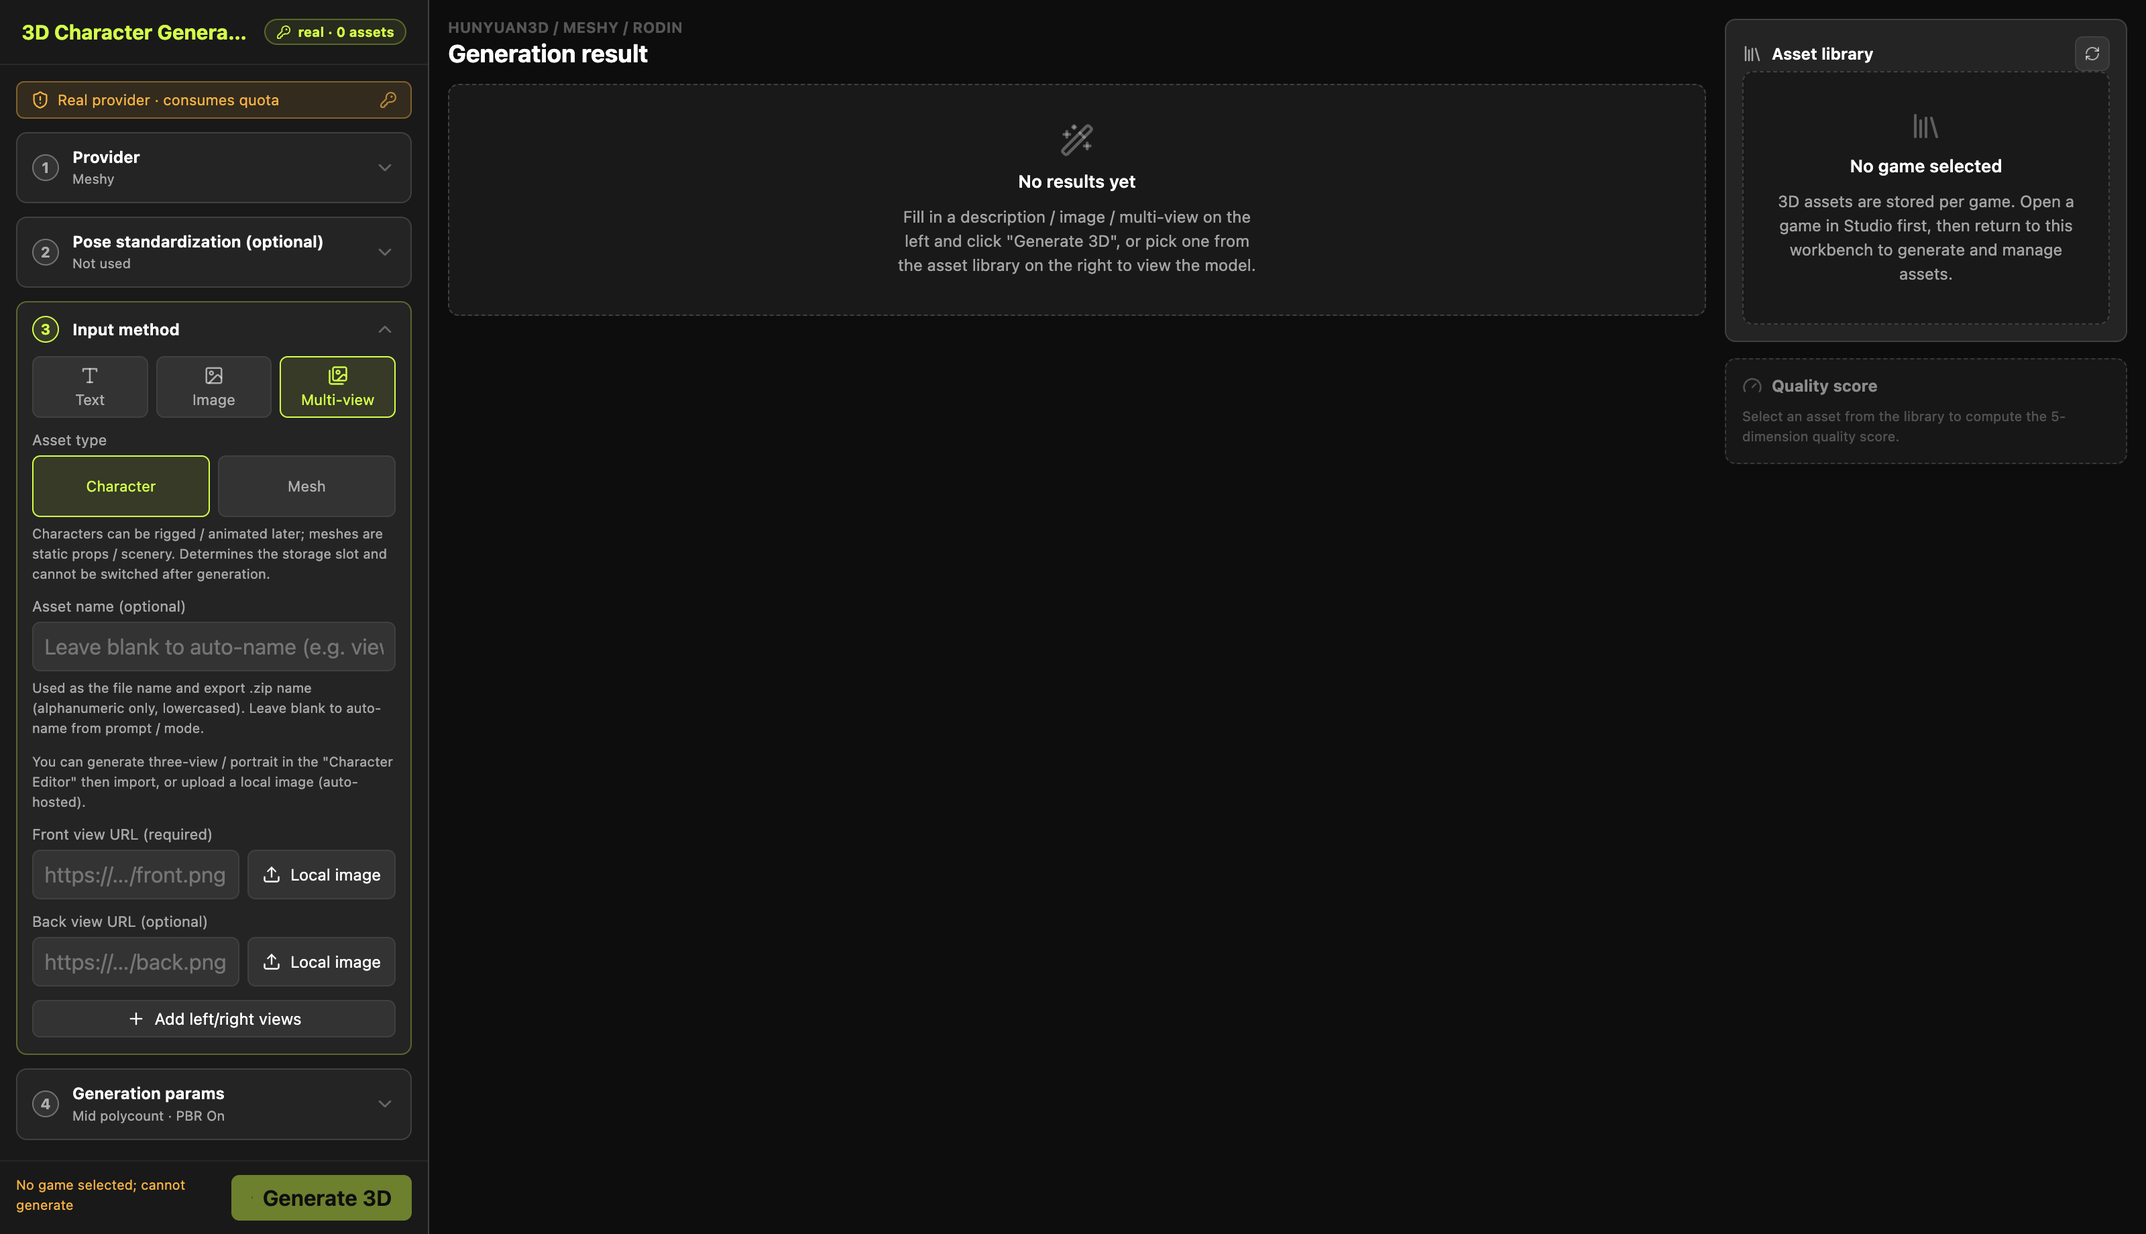
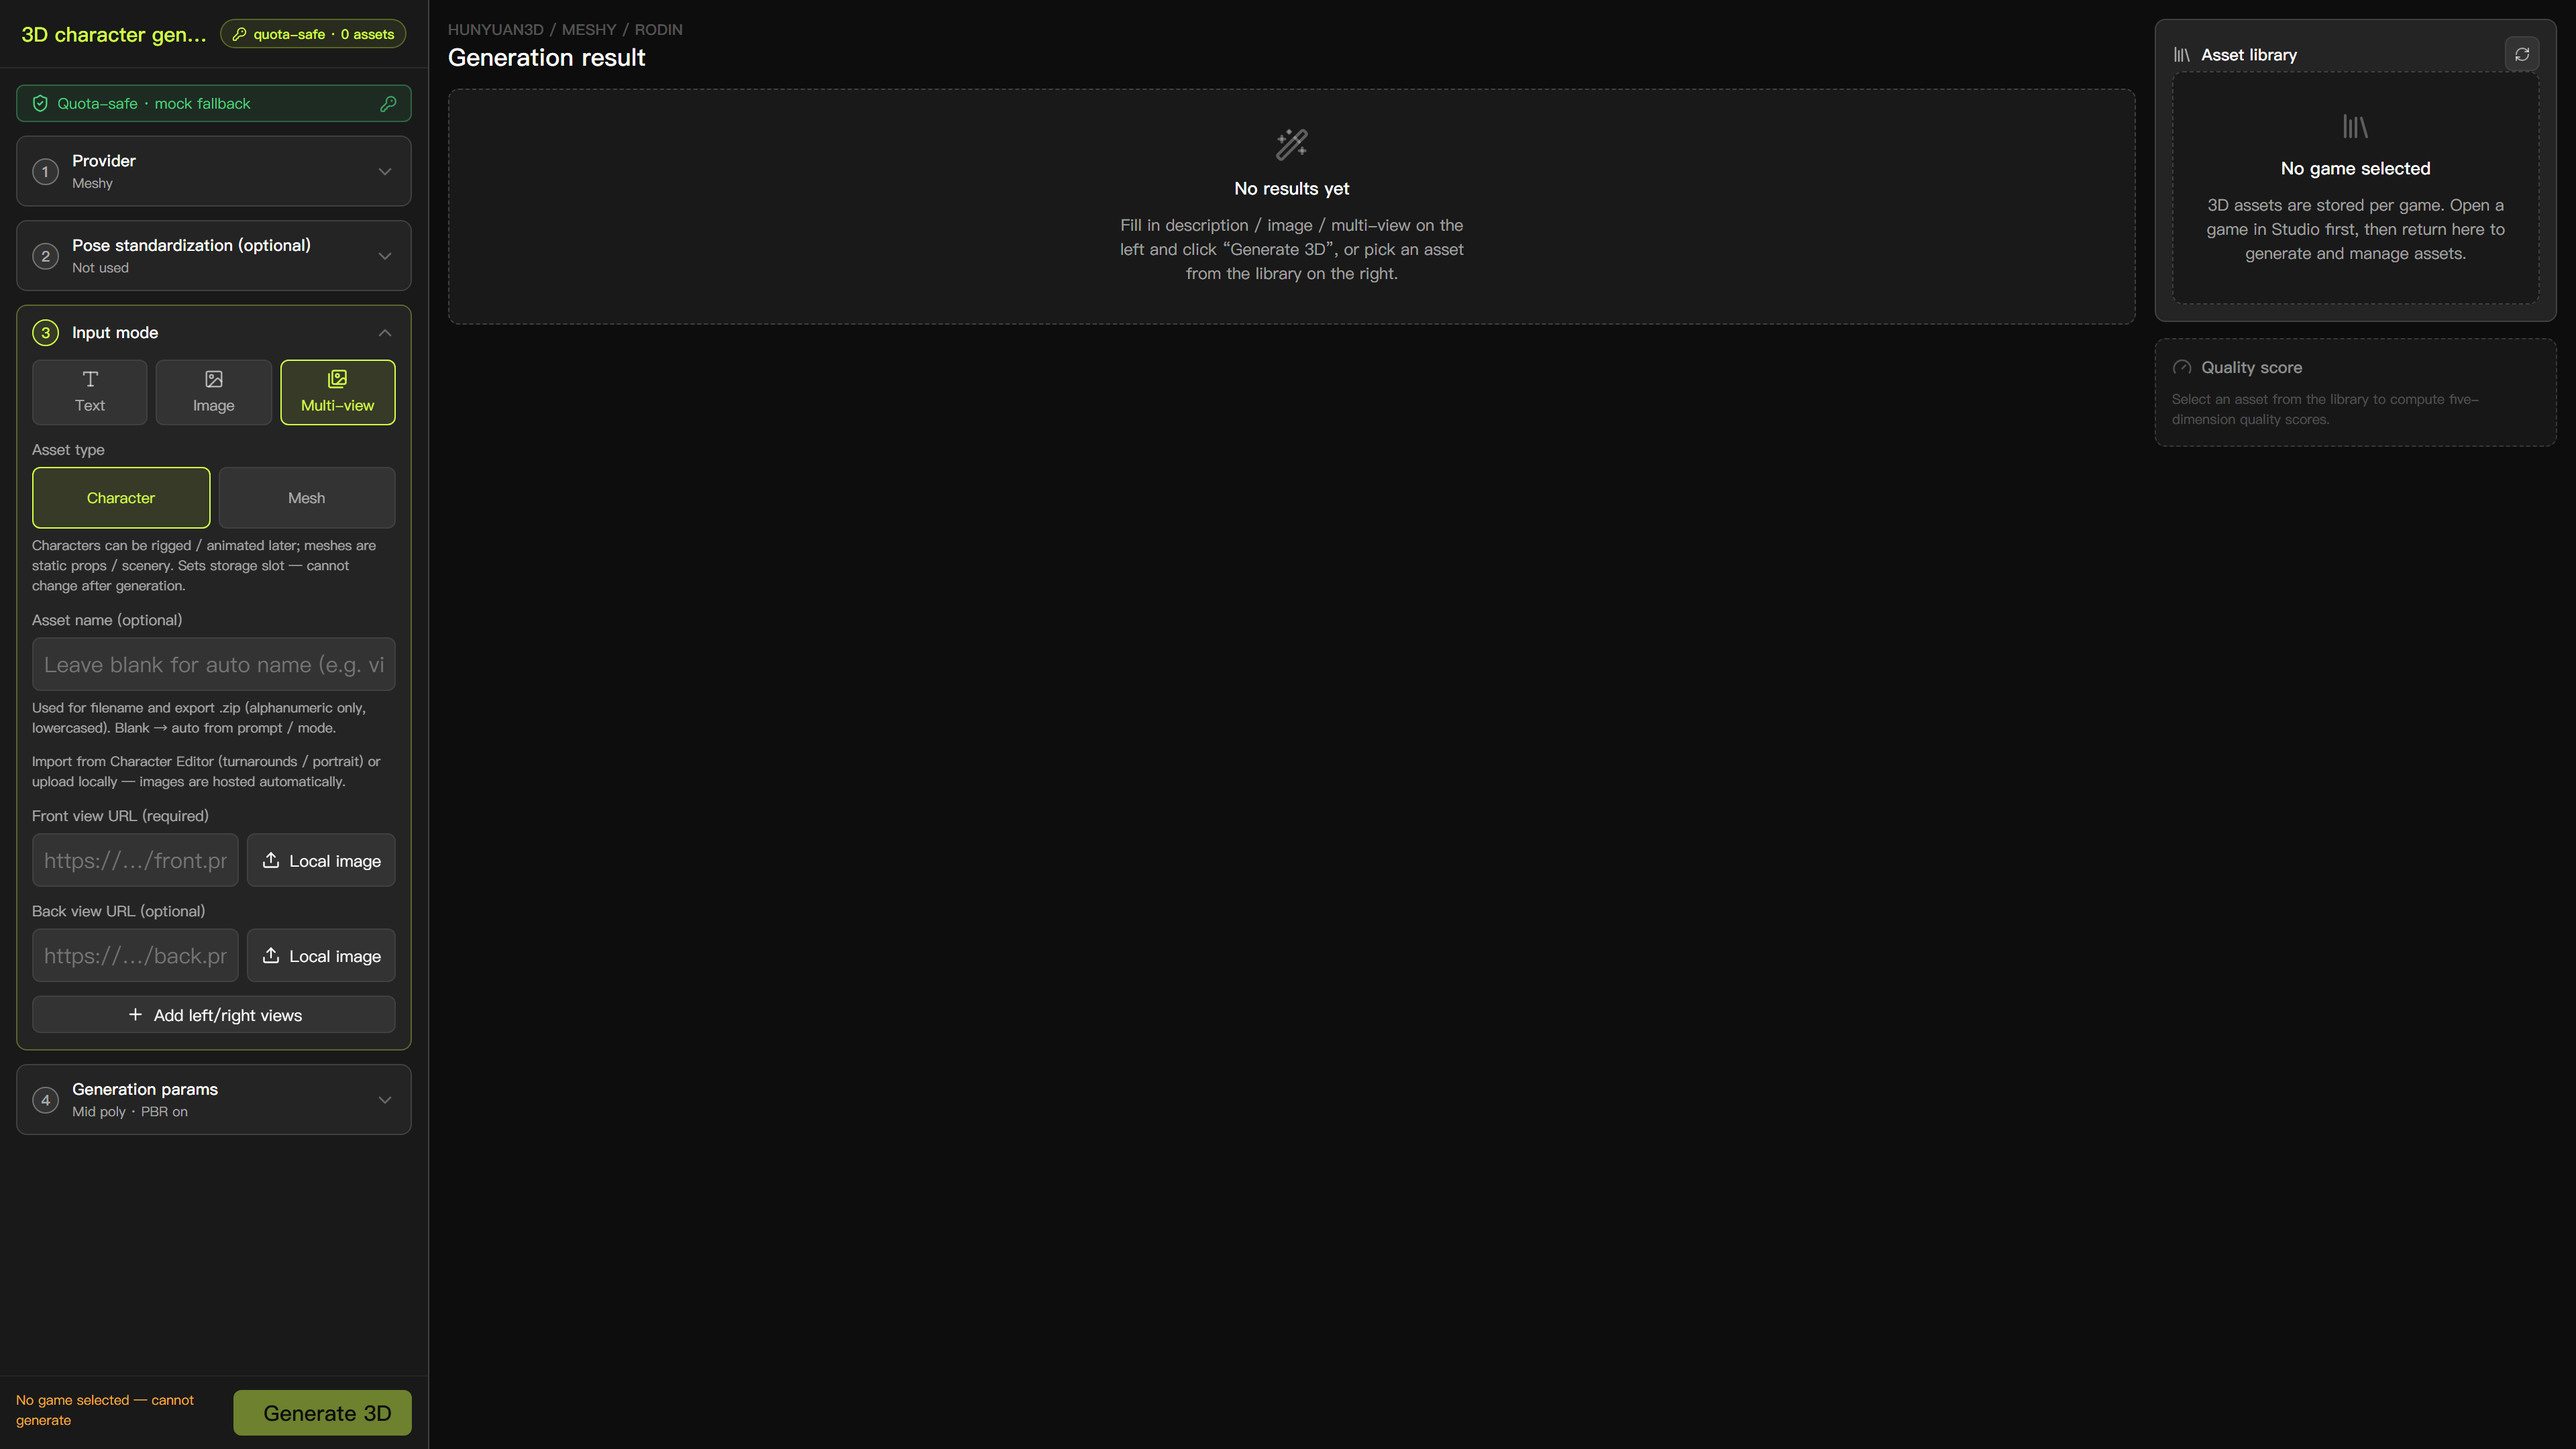
Mirror built site from source

diff --git a/assets/marketplace/app.js b/assets/marketplace/app.js
@@ -51,7 +51,7 @@
     function esc(s) { return String(s == null ? "" : s).replace(/[&<>"]/g, function (c) { return { "&": "&amp;", "<": "&lt;", ">": "&gt;", "\"": "&quot;" }[c]; }); }
 
     // ── studio screenshot previews (runtime manifest + gallery + lightbox) ──
-    var PREVIEW_CACHE_VERSION = "studio-previews-16";
+    var PREVIEW_CACHE_VERSION = "studio-previews-17";
 
     function resolvePreviewAssetUrl(path) {
       if (!path) return path;

diff --git a/ja/examples/index.html b/ja/examples/index.html
@@ -175,7 +175,7 @@
           <span class="ex-item-tags"><span class="tag">physics</span><span class="tag">rapier</span></span>
         </a>
     </nav>
-    <div class="ex-stamp">エンジンに合わせて v0.0.0 · <code>0b4c3a701b</code></div>
+
   </aside>
   <section class="ex-view">
     <div class="ex-bar">

diff --git a/de/examples/index.html b/de/examples/index.html
@@ -175,7 +175,7 @@
           <span class="ex-item-tags"><span class="tag">physics</span><span class="tag">rapier</span></span>
         </a>
     </nav>
-    <div class="ex-stamp">auf den Motor ausgerichtet v0.0.0 · <code>0b4c3a701b</code></div>
+
   </aside>
   <section class="ex-view">
     <div class="ex-bar">

diff --git a/fr/examples/index.html b/fr/examples/index.html
@@ -175,7 +175,7 @@
           <span class="ex-item-tags"><span class="tag">physics</span><span class="tag">rapier</span></span>
         </a>
     </nav>
-    <div class="ex-stamp">aligné sur le moteur v0.0.0 · <code>0b4c3a701b</code></div>
+
   </aside>
   <section class="ex-view">
     <div class="ex-bar">

diff --git a/es/examples/index.html b/es/examples/index.html
@@ -175,7 +175,7 @@
           <span class="ex-item-tags"><span class="tag">physics</span><span class="tag">rapier</span></span>
         </a>
     </nav>
-    <div class="ex-stamp">alineado al motor v0.0.0 · <code>0b4c3a701b</code></div>
+
   </aside>
   <section class="ex-view">
     <div class="ex-bar">

diff --git a/pt/examples/index.html b/pt/examples/index.html
@@ -175,7 +175,7 @@
           <span class="ex-item-tags"><span class="tag">physics</span><span class="tag">rapier</span></span>
         </a>
     </nav>
-    <div class="ex-stamp">alinhado ao motor v0.0.0 · <code>0b4c3a701b</code></div>
+
   </aside>
   <section class="ex-view">
     <div class="ex-bar">

diff --git a/ko/examples/index.html b/ko/examples/index.html
@@ -175,7 +175,7 @@
           <span class="ex-item-tags"><span class="tag">physics</span><span class="tag">rapier</span></span>
         </a>
     </nav>
-    <div class="ex-stamp">엔진에 정렬 v0.0.0 · <code>0b4c3a701b</code></div>
+
   </aside>
   <section class="ex-view">
     <div class="ex-bar">

diff --git a/zh/examples/index.html b/zh/examples/index.html
@@ -175,7 +175,7 @@
           <span class="ex-item-tags"><span class="tag">physics</span><span class="tag">rapier</span></span>
         </a>
     </nav>
-    <div class="ex-stamp">对齐引擎 v0.0.0 · <code>0b4c3a701b</code></div>
+
   </aside>
   <section class="ex-view">
     <div class="ex-bar">

diff --git a/de/marketplace/index.html b/de/marketplace/index.html
@@ -698,6 +698,6 @@
 
 <script src="/assets/site.js?v=819151e2"></script>
 <script src="/assets/marketplace/marketplace-card-icons.js?v=fc96d964"></script>
-<script src="/assets/marketplace/app.js?v=ca81631f"></script>
+<script src="/assets/marketplace/app.js?v=f3d507b9"></script>
 </body>
 </html>

diff --git a/es/marketplace/index.html b/es/marketplace/index.html
@@ -698,6 +698,6 @@
 
 <script src="/assets/site.js?v=819151e2"></script>
 <script src="/assets/marketplace/marketplace-card-icons.js?v=fc96d964"></script>
-<script src="/assets/marketplace/app.js?v=ca81631f"></script>
+<script src="/assets/marketplace/app.js?v=f3d507b9"></script>
 </body>
 </html>

diff --git a/fr/marketplace/index.html b/fr/marketplace/index.html
@@ -698,6 +698,6 @@
 
 <script src="/assets/site.js?v=819151e2"></script>
 <script src="/assets/marketplace/marketplace-card-icons.js?v=fc96d964"></script>
-<script src="/assets/marketplace/app.js?v=ca81631f"></script>
+<script src="/assets/marketplace/app.js?v=f3d507b9"></script>
 </body>
 </html>

diff --git a/ja/marketplace/index.html b/ja/marketplace/index.html
@@ -698,6 +698,6 @@
 
 <script src="/assets/site.js?v=819151e2"></script>
 <script src="/assets/marketplace/marketplace-card-icons.js?v=fc96d964"></script>
-<script src="/assets/marketplace/app.js?v=ca81631f"></script>
+<script src="/assets/marketplace/app.js?v=f3d507b9"></script>
 </body>
 </html>
